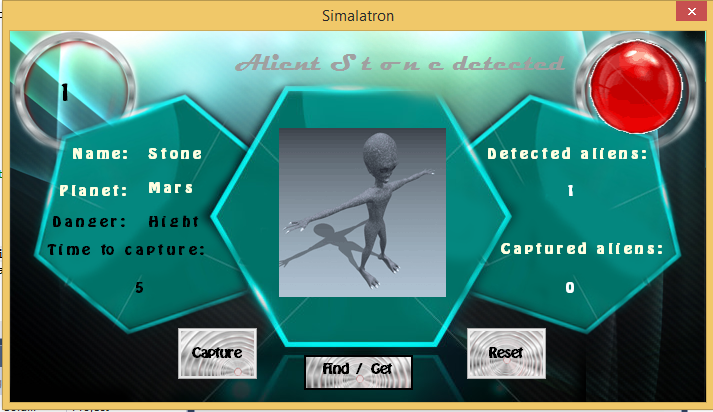
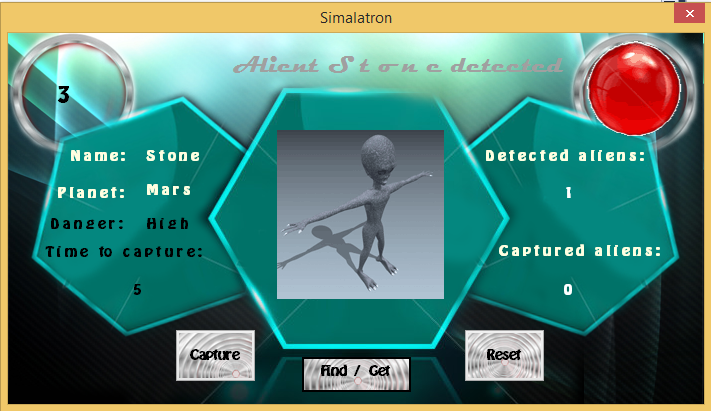
some changes in the sourceCode

diff --git a/IDE/Lab#2/Simulatron_IDE/Form1.cs b/IDE/Lab#2/Simulatron_IDE/Form1.cs
@@ -60,9 +60,8 @@ namespace Simulatron_IDE
 
             string[] name = { "I r o n", "M a r b l e", "S t o n e", "U l i f o", "I z u q i" };
             string[] planets = { "V e n u s", "J u p i t e r", "M a r s", "S a t u r n", "N e p t u n e" };
-            string[] danger = { "H i g h t", "M e d i u m", "H i g h t", "M e d i u m", "L o w" };
+            string[] danger = { "H i g h", "Moderate", "H i g h", "Moderate", "L o w" };
             string[] second = { "7", "9", "5", "11", "13" };
-            char charIndex;
 
                 if ((r >= 0) & (r <= 4))
                 {
@@ -154,6 +153,8 @@ namespace Simulatron_IDE
             planet_input.Text = " ";
             danger_input.Text = " ";
             seconds.Text = " ";
+            i_captured = 0;
+            i = 0;
             timer1.Stop();
             
             color.Image = null;
@@ -184,6 +185,11 @@ namespace Simulatron_IDE
                 MessageBox.Show("The alien is captured", "Good job!", MessageBoxButtons.OK, MessageBoxIcon.Exclamation);
             }
    
+
+        }
+
+        private void detected_Click(object sender, EventArgs e)
+        {
 
         }
 

diff --git a/IDE/Lab#2/Simulatron_IDE/Form1.Designer.cs b/IDE/Lab#2/Simulatron_IDE/Form1.Designer.cs
@@ -80,6 +80,7 @@
             this.detected.Size = new System.Drawing.Size(257, 28);
             this.detected.TabIndex = 1;
             this.detected.Text = "No aliens detected";
+            this.detected.Click += new System.EventHandler(this.detected_Click);
             // 
             // nr
             // 

diff --git a/IDE/Lab#2/README.md b/IDE/Lab#2/README.md
@@ -23,8 +23,24 @@
      - Switch forms (1pt)
 
      The result of my application:
+
+       - First form _LogIn_ request with progress bar : 
+
+       ![screen](https://raw.githubusercontent.com/TUM-FAF/FAF-121-Leahu-Luminita/master/IDE/Lab%232/aliens/logIn.png)
+
+       - Second form _MainScreen_ of _Simulatron_ :
+          > the same screen is generated when button _Reset_ is clicked
      
-     ![screen1](https://raw.githubusercontent.com/TUM-FAF/FAF-121-Leahu-Luminita/master/IDE/Lab%232/aliens/main_screen.png)
+       ![screen1](https://raw.githubusercontent.com/TUM-FAF/FAF-121-Leahu-Luminita/master/IDE/Lab%232/aliens/main_screen.png)
+
+       - The result shown when button _Find / Get_ is clicked
+          - in center - is loaded a gif, with found alien;
+          - in the right corner - a gif that flashes, the colors depend on the danger level:
+            - red - high
+            - yellow - moderate
+            - green - low
+          - in the left corner  - stopwatch,
+          - in the left part of screen - the information about found alien
 
 
 
